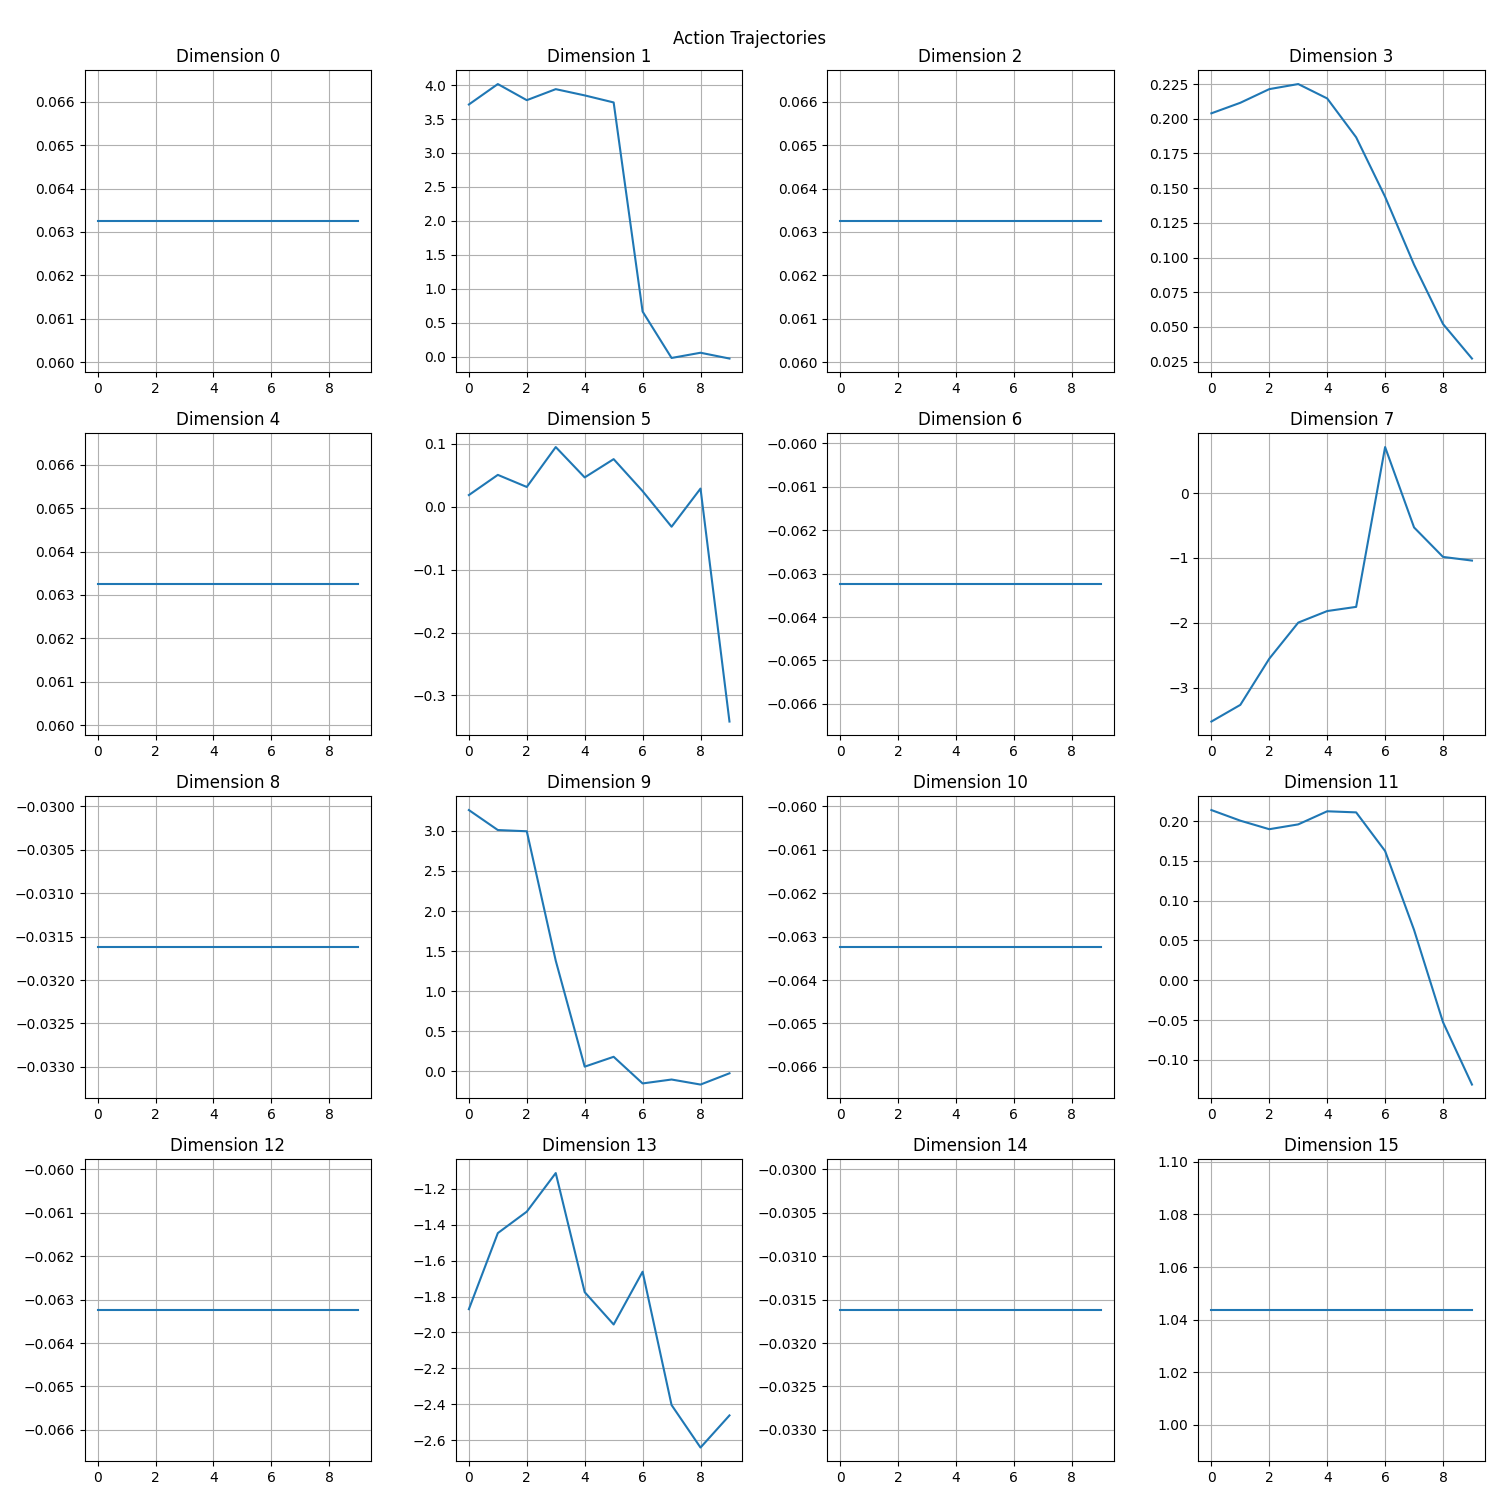
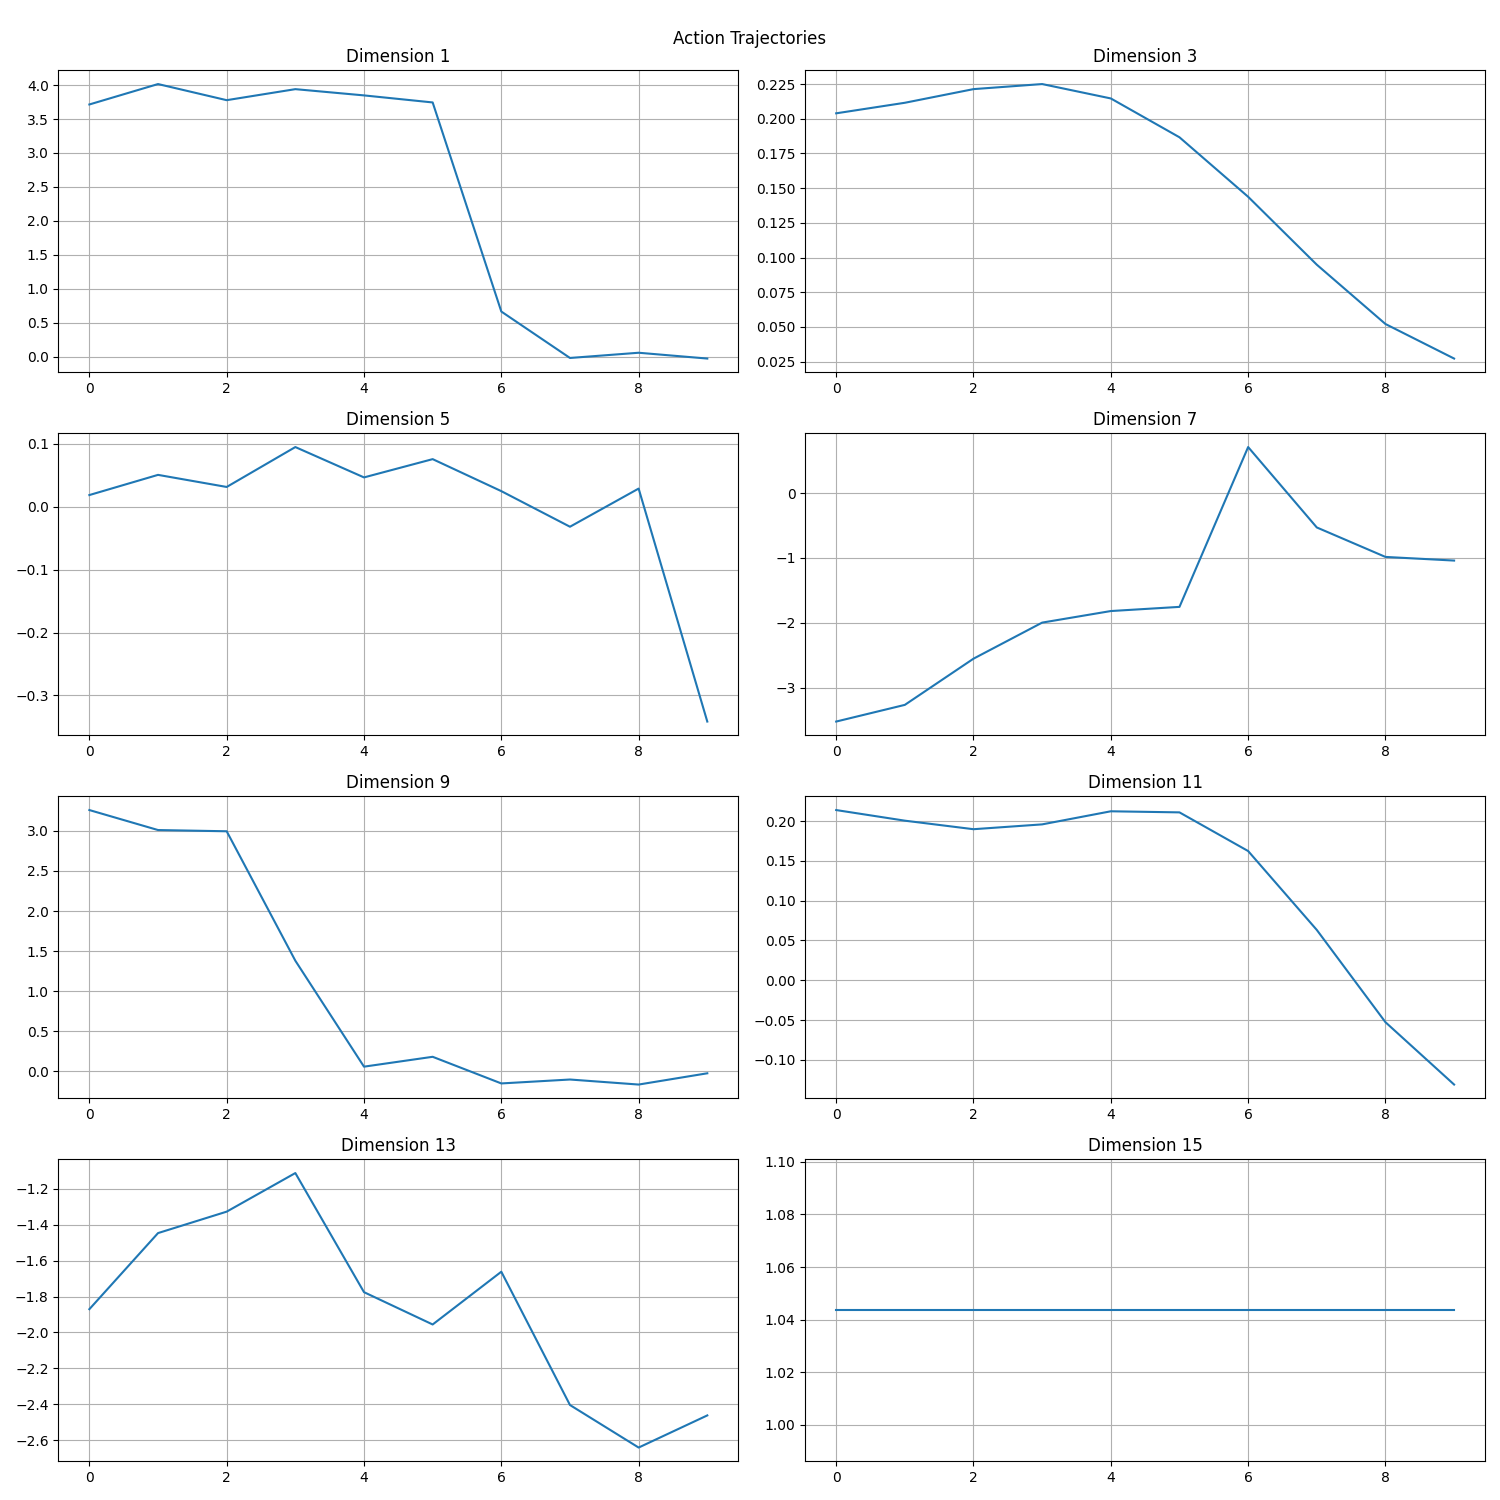
md explaination

diff --git a/scripts/faster_fast_check.py b/scripts/faster_fast_check.py
@@ -6,13 +6,15 @@ from scipy.fft import idct
 tokenizer = AutoProcessor.from_pretrained("physical-intelligence/fast", trust_remote_code=True)
 tokenizer.action_dim = 16
 tokenizer.time_horizon = 10
-# import pdb; pdb.set_trace()
+
 tokens = [271, 678, 271, 652, 293, 533, 266, 424, 272, 553, 584, 266, 424, 256, 537, 1833, 263, 224, 256, 473, 310, 769, 268, 238, 1061, 775, 1099, 293, 438, 268, 247, 286, 485, 521, 311, 268, 106, 287, 544, 438, 593, 408, 286, 311, 403, 593, 268, 248, 287, 665, 273, 862, 862, 286, 311, 356, 287, 286, 287, 403, 310, 593, 1506, 258, 485, 274, 777]
+# Real tokens generated by a finetuned PI0-FAST model (example)
+
 actions = tokenizer.decode([tokens])
 import matplotlib.pyplot as plt
 
 # Create a figure with 16 subplots (one for each dimension)
-fig, axes = plt.subplots(4, 4, figsize=(15, 15))
+fig, axes = plt.subplots(4, 2, figsize=(15, 15))
 fig.suptitle('Action Trajectories')
 
 # Flatten actions to 10x16 (remove batch dimension)
@@ -22,9 +24,10 @@ action_trajectories = actions[0]
 time_points = np.arange(tokenizer.time_horizon)
 
 # Plot each dimension
-for dim in range(tokenizer.action_dim):
-    row = dim // 4
-    col = dim % 4
+for dim in range(1, tokenizer.action_dim, 2):
+
+    row = (dim - 1) // 4  # Integer division to determine row (0-3)
+    col = ((dim - 1) % 4) // 2  # Determine column (0-1)
     axes[row, col].plot(time_points, action_trajectories[:, dim])
     axes[row, col].set_title(f'Dimension {dim}')
     axes[row, col].grid(True)
@@ -45,13 +48,13 @@ for i in range(tokenizer.time_horizon):
 
     action_trajectories = idct(decoded_dct_coeff_ / tokenizer.scale, axis=0, norm="ortho")
     # Create a figure with 16 subplots (one for each dimension)
-    fig, axes = plt.subplots(4, 4, figsize=(15, 15))
+    fig, axes = plt.subplots(4, 2, figsize=(15, 15))
     fig.suptitle('Action Trajectories')
     time_points = np.arange(tokenizer.time_horizon)
     # Plot each dimension
-    for dim in range(tokenizer.action_dim):
-        row = dim // 4
-        col = dim % 4
+    for dim in range(1, tokenizer.action_dim, 2):
+        row = (dim - 1) // 4  # Integer division to determine row (0-3)
+        col = ((dim - 1) % 4) // 2  # Determine column (0-1)
         axes[row, col].plot(time_points, action_trajectories[:, dim])
         axes[row, col].set_title(f'Dimension {dim}')
         axes[row, col].grid(True)

diff --git a/scripts/dct_impl.py b/scripts/dct_impl.py
@@ -14,11 +14,6 @@ def benchmark_dct_implementations(size=1024, num_trials=100):
     # Generate random test data
     data = np.random.random((size, size)).astype(np.float32)
     data_gpu = cp.asarray(data)
-    
-    # Warm up GPU
-    # with scipy.fft.set_backend(cufft):
-    #     _ = scipy.fft.dct(data_gpu)
-    #     _ = scipy.fft.idct(data_gpu)
 
     # Benchmark scipy DCT
     start = time.time()

diff --git a/README.md b/README.md
@@ -1,7 +1,48 @@
-Custom implementation for DCT (Discrete Cosine Transform) early stopping technique to decode only the first few DCT coefficients from PaLi-Gemma rather than waiting for a full action chunk inference to complete. This can cut down inference to action time by roughly half since around the first 3-4 frequency coefficients of the DCT are typically enough for a coarse action token reconstruction.
+My custom implementation for DCT (Discrete Cosine Transform) early stopping technique to decode only the first few DCT coefficients from PaLi-Gemma rather than waiting for a full action chunk inference to complete. This can cut down inference to action time by roughly half since around the first 3-4 frequency coefficients of the DCT are typically enough for a coarse action token reconstruction.
 
 # FAST: Efficient Action Tokenization for Vision-Language-Action Models
 
 This is a modified repo for the [FAST action tokenizer](https://www.pi.website/research/fast).
 
 The action tokenizer maps any sequence of robot actions into a sequence of dense, discrete **action tokens** for training autoregressive VLA models.
+
+## Intuition Behind DCT Early Stopping
+
+The Discrete Cosine Transform (DCT) is a frequency-domain transformation technique that expresses a sequence of data points as a sum of cosine functions at different frequencies. In the context of robot action trajectories, we can leverage DCT's energy compaction property to represent complex action sequences with just a few coefficients.
+
+### Why DCT for Robot Actions?
+
+Robot action trajectories often contain smooth, continuous movements across multiple dimensions. When transformed into the frequency domain using DCT:
+
+1. **Energy Compaction**: Most of the signal's energy gets concentrated in the lower frequency components
+2. **Dimensionality Reduction**: Complex trajectories can be accurately represented with just a few DCT coefficients
+3. **Temporal Coherence**: The DCT naturally captures the temporal structure of actions
+
+### The DCT Early Stopping Technique
+
+The key insight enabling early stopping is that we don't need to wait for all DCT coefficients to be generated by the model. Since the lower frequency components contain most of the action information, we can:
+
+1. Generate only the first few DCT coefficients
+2. Reconstruct a coarse but usable approximation of the full action
+3. Begin executing the action, and optionally, let the model continue generating higher-frequency details
+
+This approach cuts down inference-to-action time by roughly half, enabling more responsive robot control.
+
+### Visual Demonstration
+
+Looking at the figures:
+
+![fullDCT](https://raw.githubusercontent.com/uynitsuj/FASTer/refs/heads/main/scripts/action_trajectories_base_fast.png)
+
+**Figure 1: Full DCT Reconstruction**
+The first image shows action trajectories across multiple dimensions reconstructed using all DCT coefficients. These are complete, detailed action sequences with all fine-grained movements preserved.
+
+![zeroDCT](https://github.com/uynitsuj/FASTer/blob/main/scripts/action_trajectories_base_fast_coeff_0.png)
+
+**Figure 2: 0th Harmonic Only (DC Signal)**
+The second image shows reconstructions using only the 0th DCT coefficient (DC component). This essentially captures the mean value of each action dimension - which is why we see flat lines. While this provides the general position for each dimension, it lacks any temporal dynamics.
+
+![zerofourDCT](https://github.com/uynitsuj/FASTer/blob/main/scripts/action_trajectories_base_fast_coeff_4.png)
+
+**Figure 3: Early Stopping (0th through 4th Harmonics)**
+The third image demonstrates reconstruction using the 0th through 4th harmonics. Notice how it approximates the overall shape and critical movements from Figure 1, despite using less than half of the coefficients. The major action components - like the significant drops in Dimensions 1, 3, 5, and 9 - are clearly captured.
